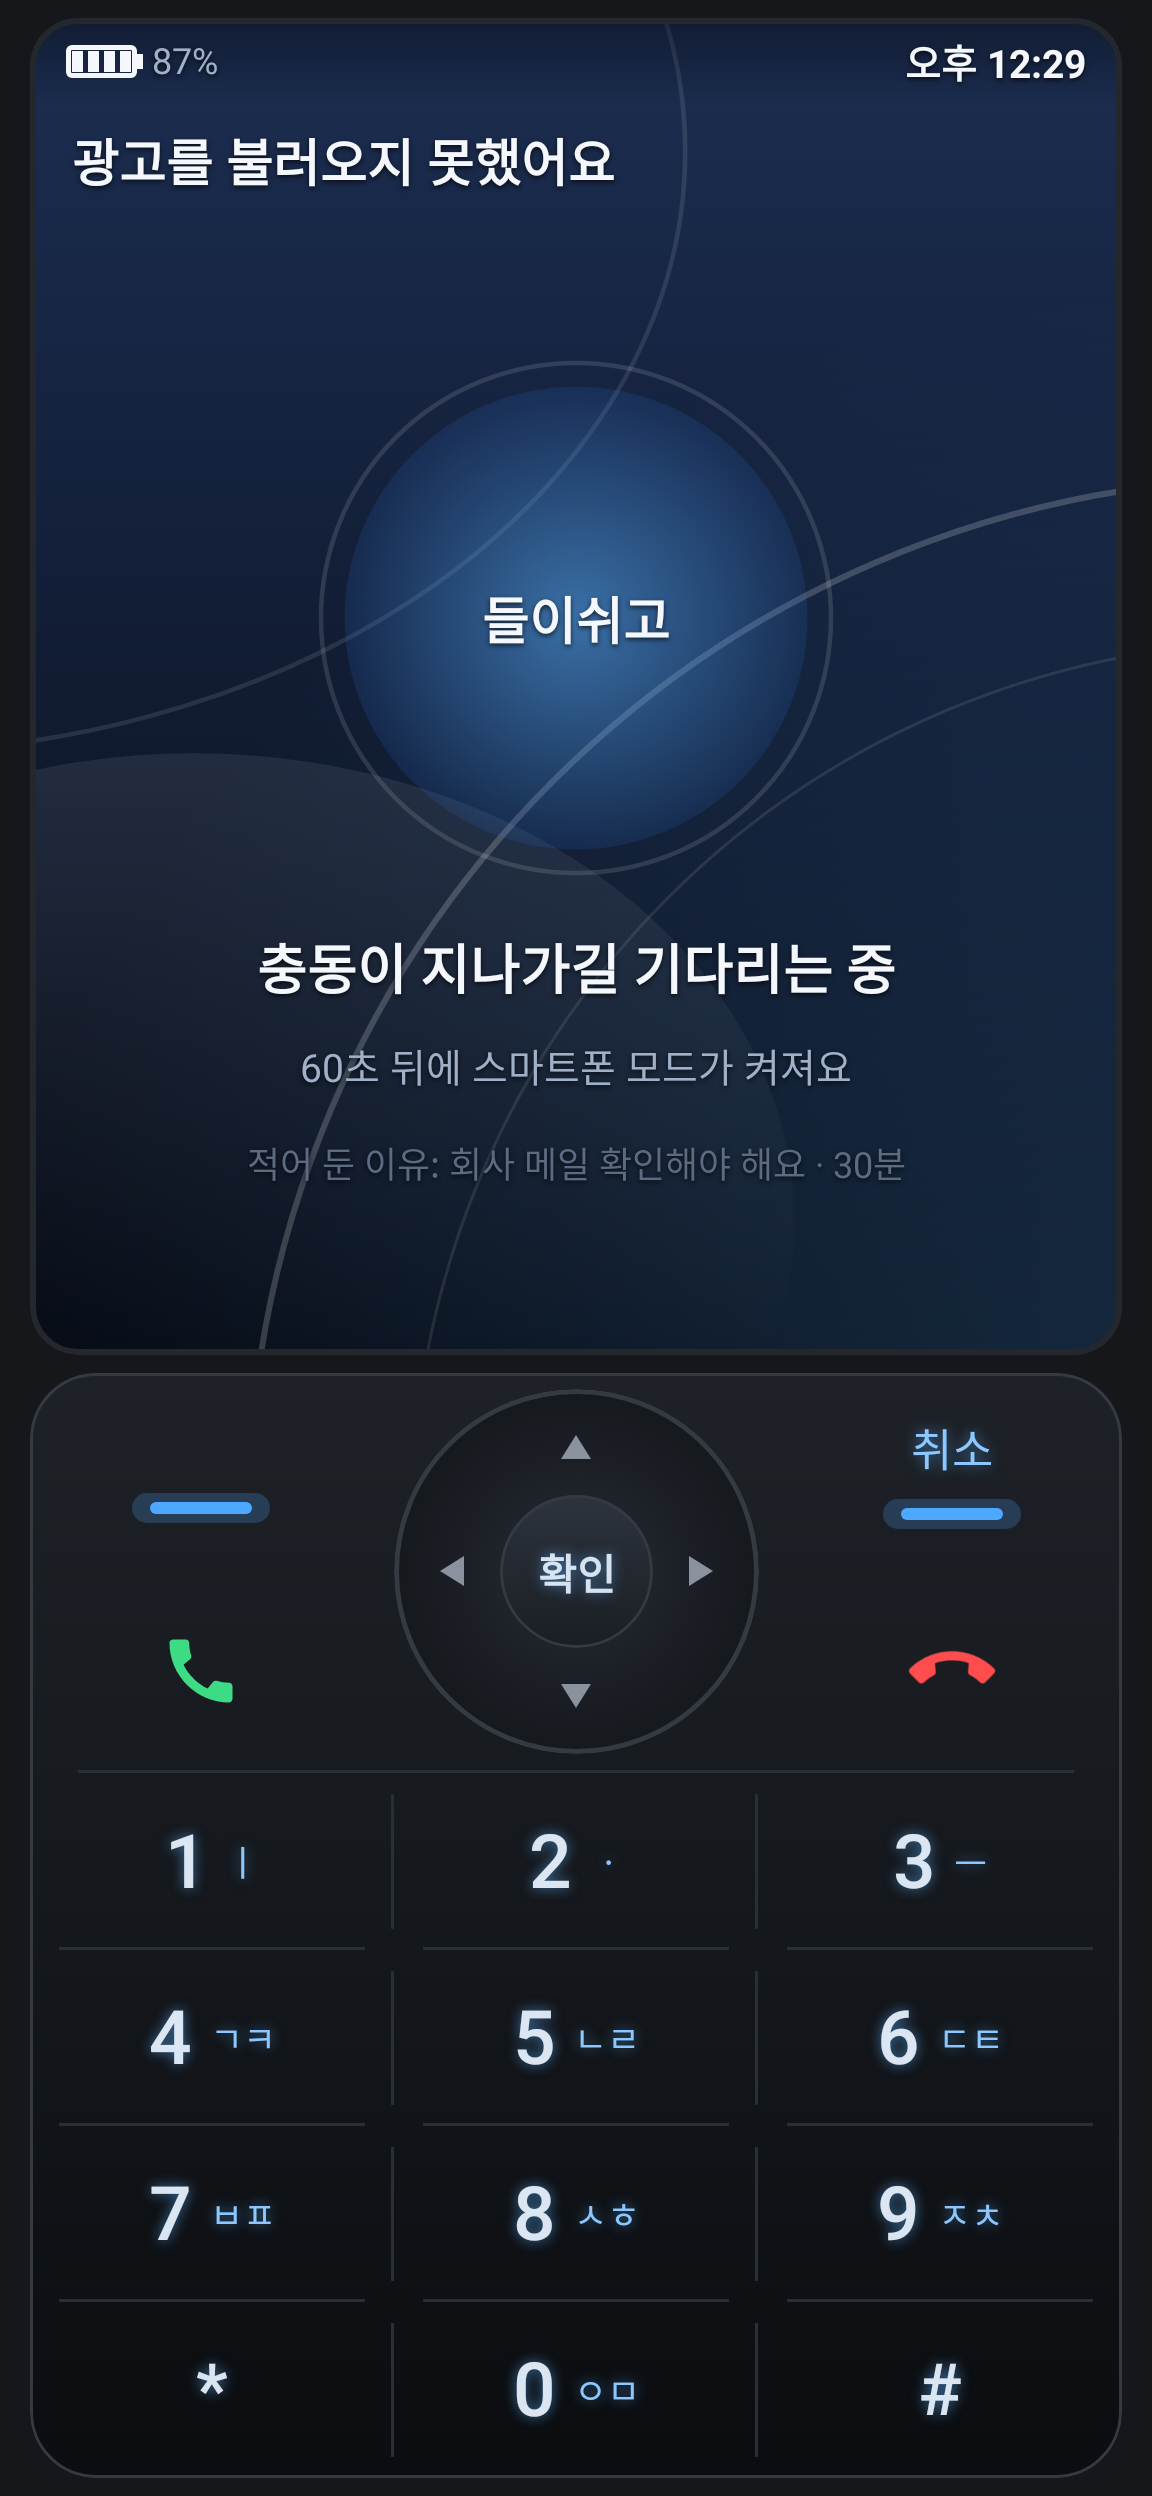
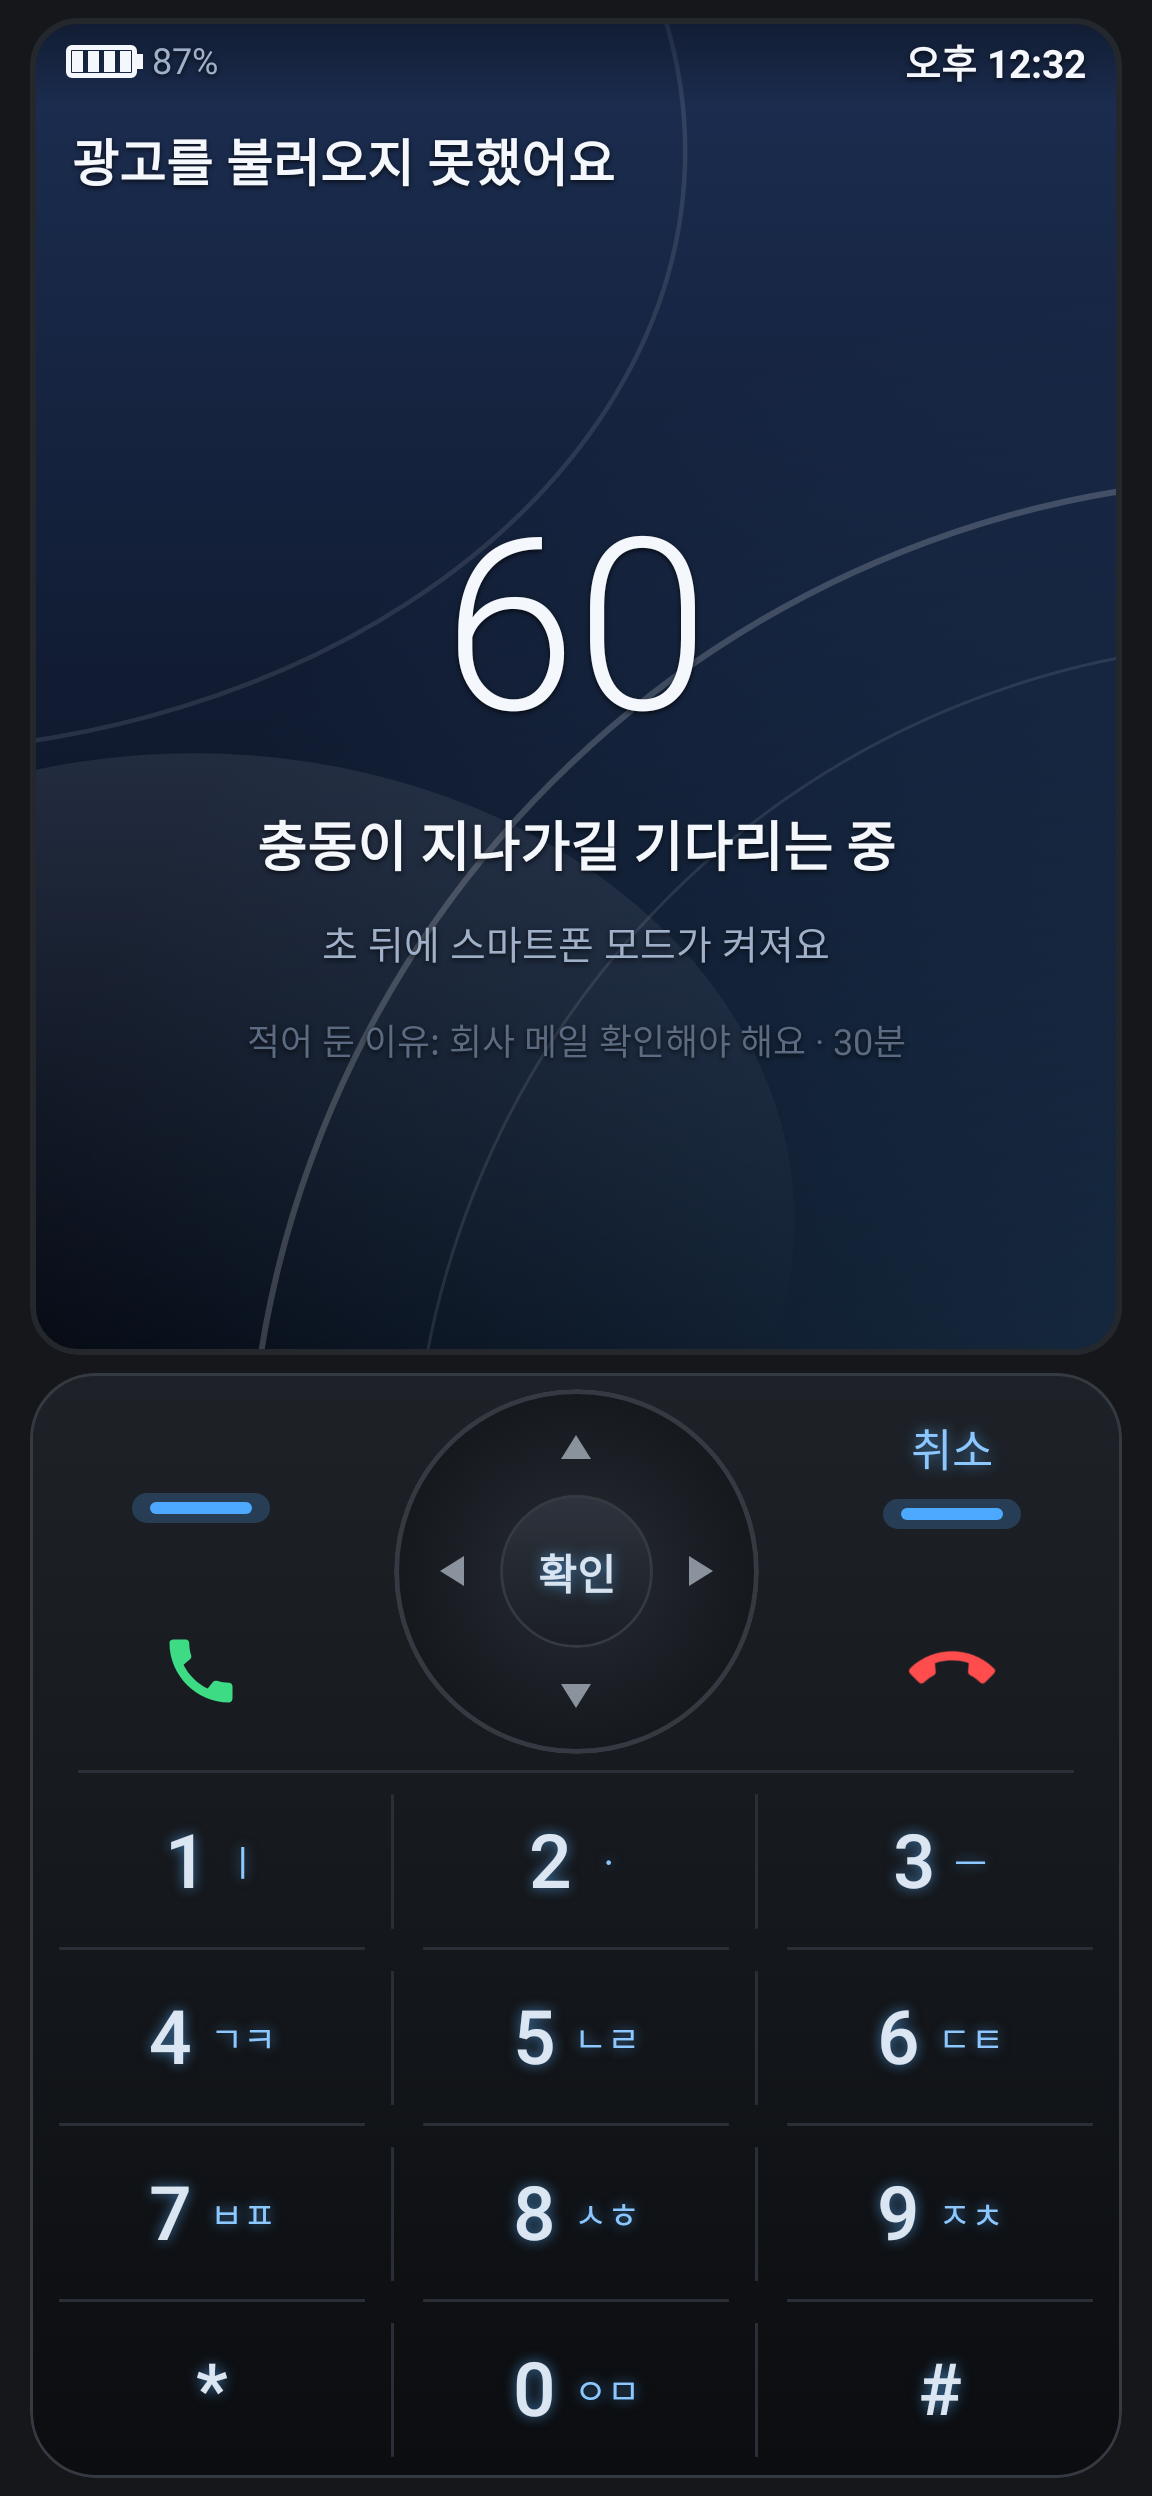
1분 대기 화면에서 숨쉬기 원 제거 (숫자 카운트다운 + 문구)
Claude-Session: https://claude.ai/code/session_01NTGzdmekjWKd9sVyjh3UtQ

Changed region(s): [[0.2188, 0.1562, 0.7812, 0.4688], [0.9062, 0.0, 0.9375, 0.0312]]

diff --git a/app/src/main/java/com/aggro1025/jeopda/ui/folder/Mindful.kt b/app/src/main/java/com/aggro1025/jeopda/ui/folder/Mindful.kt
@@ -1,29 +1,6 @@
 package com.aggro1025.jeopda.ui.folder
 
-import androidx.compose.animation.core.LinearEasing
-import androidx.compose.animation.core.RepeatMode
-import androidx.compose.animation.core.animateFloat
-import androidx.compose.animation.core.infiniteRepeatable
-import androidx.compose.animation.core.rememberInfiniteTransition
-import androidx.compose.animation.core.tween
-import androidx.compose.foundation.Canvas
-import androidx.compose.foundation.layout.Box
-import androidx.compose.foundation.layout.size
-import androidx.compose.material3.Text
-import androidx.compose.runtime.Composable
-import androidx.compose.runtime.getValue
-import androidx.compose.ui.Alignment
-import androidx.compose.ui.Modifier
-import androidx.compose.ui.geometry.Offset
-import androidx.compose.ui.graphics.Brush
-import androidx.compose.ui.graphics.Color
-import androidx.compose.ui.graphics.drawscope.Stroke
-import androidx.compose.ui.platform.LocalInspectionMode
-import androidx.compose.ui.text.font.FontWeight
-import androidx.compose.ui.unit.Dp
-import androidx.compose.ui.unit.dp
-import androidx.compose.ui.unit.sp
-import com.aggro1025.jeopda.ui.Scr
+
 
 /** 기다리는 동안 보여 주는 문구 (모두 직접 쓴 문구) */
 val MINDFUL_LINES = listOf(
@@ -38,36 +15,3 @@ val MINDFUL_LINES = listOf(
     "진짜 필요한 일만 고르는 중",
     "나를 위한 1분을 쓰는 중",
 )
-
-/** 숨쉬기 원: 4초 동안 커지며 "들이쉬고", 4초 동안 작아지며 "내쉬고" */
-@Composable
-fun BreathingCircle(size: Dp = 170.dp) {
-    val inspection = LocalInspectionMode.current
-    val t = rememberInfiniteTransition(label = "breath")
-    val phase by t.animateFloat(
-        initialValue = 0f,
-        targetValue = 1f,
-        animationSpec = infiniteRepeatable(tween(8_000, easing = LinearEasing), RepeatMode.Restart),
-        label = "phase",
-    )
-    val p = if (inspection) 0.35f else phase
-    val inhale = p < 0.5f
-    // 0→0.5 커짐, 0.5→1 작아짐 (부드럽게)
-    val k = if (inhale) p / 0.5f else 1f - (p - 0.5f) / 0.5f
-    val eased = (1 - kotlin.math.cos(k * Math.PI).toFloat()) / 2f
-    val scale = 0.55f + 0.45f * eased
-
-    Box(Modifier.size(size), contentAlignment = Alignment.Center) {
-        Canvas(Modifier.size(size)) {
-            val r = this.size.minDimension / 2f
-            val c = Offset(this.size.width / 2f, this.size.height / 2f)
-            drawCircle(Color(0x1FFFFFFF), radius = r, center = c, style = Stroke(1.5.dp.toPx()))
-            drawCircle(
-                Brush.radialGradient(listOf(Scr.accent.copy(alpha = 0.55f), Scr.accentDeep.copy(alpha = 0.15f)), c, r * scale),
-                radius = r * scale,
-                center = c,
-            )
-        }
-        Text(if (inhale) "들이쉬고" else "내쉬고", style = scrText(17.sp, weight = FontWeight.Bold))
-    }
-}

diff --git a/app/src/main/java/com/aggro1025/jeopda/ui/folder/FolderApp.kt b/app/src/main/java/com/aggro1025/jeopda/ui/folder/FolderApp.kt
@@ -596,8 +596,8 @@ private fun UnlockWaitScreen(
             horizontalAlignment = Alignment.CenterHorizontally,
             verticalArrangement = Arrangement.Center,
         ) {
-            BreathingCircle()
-            Spacer(Modifier.height(18.dp))
+            Text("$left", style = scrText(80.sp, weight = FontWeight.Light))
+            Spacer(Modifier.height(12.dp))
             // 문구는 10초마다 바뀐다
             Text(
                 MINDFUL_LINES[(passed / 10 + screen.reason.length) % MINDFUL_LINES.size],
@@ -605,7 +605,7 @@ private fun UnlockWaitScreen(
                 textAlign = TextAlign.Center,
             )
             Spacer(Modifier.height(10.dp))
-            Text("${left}초 뒤에 스마트폰 모드가 켜져요", style = scrText(13.sp, Scr.dim))
+            Text("초 뒤에 스마트폰 모드가 켜져요", style = scrText(13.sp, Scr.dim))
             Spacer(Modifier.height(14.dp))
             Text(
                 "적어 둔 이유: ${screen.reason} · ${durationText(screen.minutes)}",

diff --git a/docs/decisions.md b/docs/decisions.md
@@ -74,4 +74,4 @@
 | Kotlin | 광고 SDK 요구로 2.2.21 |
 | 다른 앱 막기 (v0.4.0) | 사용 기록 접근 + 다른 앱 위에 표시 (필수 단계). 알림 서비스 안에서 1초마다 맨 앞 앱 확인(화면 꺼지면 쉼), 허용 목록(접다, 메뉴 1~9, 알림 허용 앱, 키보드, 시스템 화면) 밖이면 폴더폰 화면 + "쓸 수 없는 앱" 안내. 원래 홈 앱/최근 앱 화면은 안내 없이 조용히 돌려보냄. 스마트폰 모드에서는 동작 안 함 |
 | AdMob 앱 ID | 출시용: ca-app-pub-5192264798199858~4163105584 (접다 - 폴더폰 모드). 디버그는 항상 구글 테스트 ID. 출시용 보상형 광고 단위: ca-app-pub-5192264798199858/8186111076 (해제 보상형) |
-| 기다리는 동안 문구 | 1분 대기 화면: 숨쉬기 원(4초 들이쉬고·4초 내쉬고) + 10초마다 바뀌는 "~하는 중" 문구 + 적어 둔 이유. 광고 불러오는 화면에도 문구 하나. 광고가 나오는 동안에는 덮지 않음(AdMob 정책). 문구는 모두 직접 작성 |
+| 기다리는 동안 문구 | 1분 대기 화면: 카운트다운 숫자 + 10초마다 바뀌는 "~하는 중" 문구 + 적어 둔 이유. 광고 불러오는 화면에도 문구 하나. 광고가 나오는 동안에는 덮지 않음(AdMob 정책). 문구는 모두 직접 작성 |
